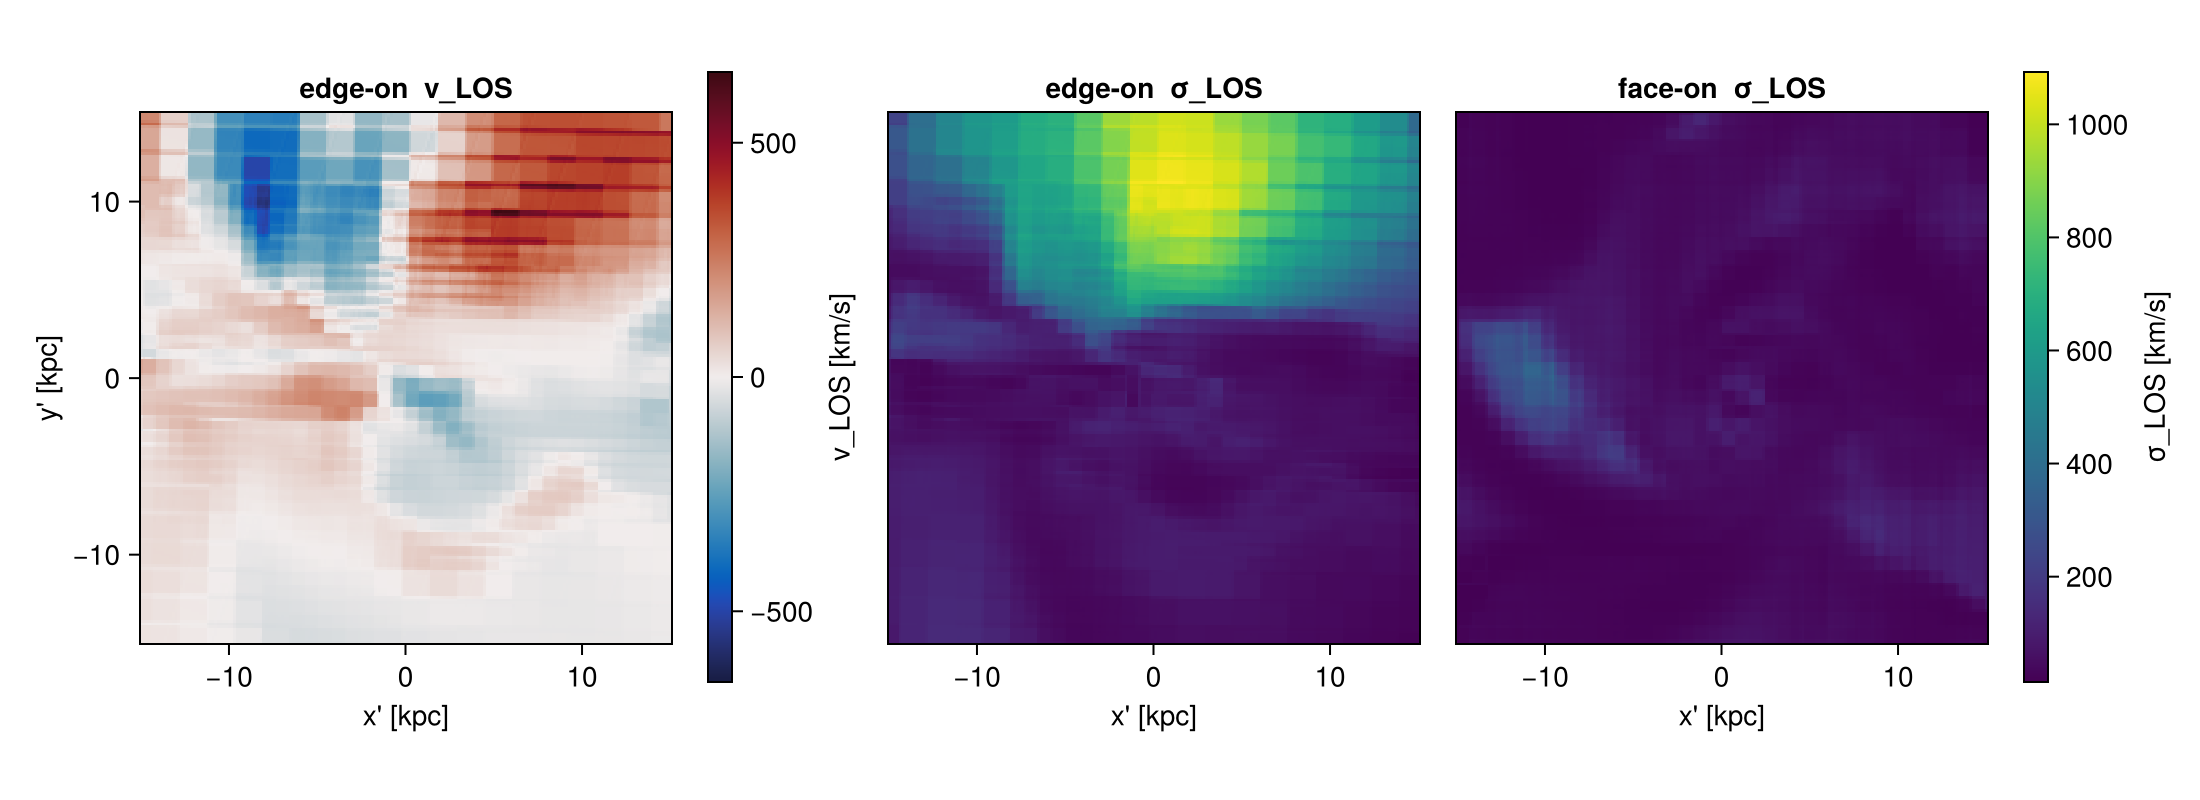
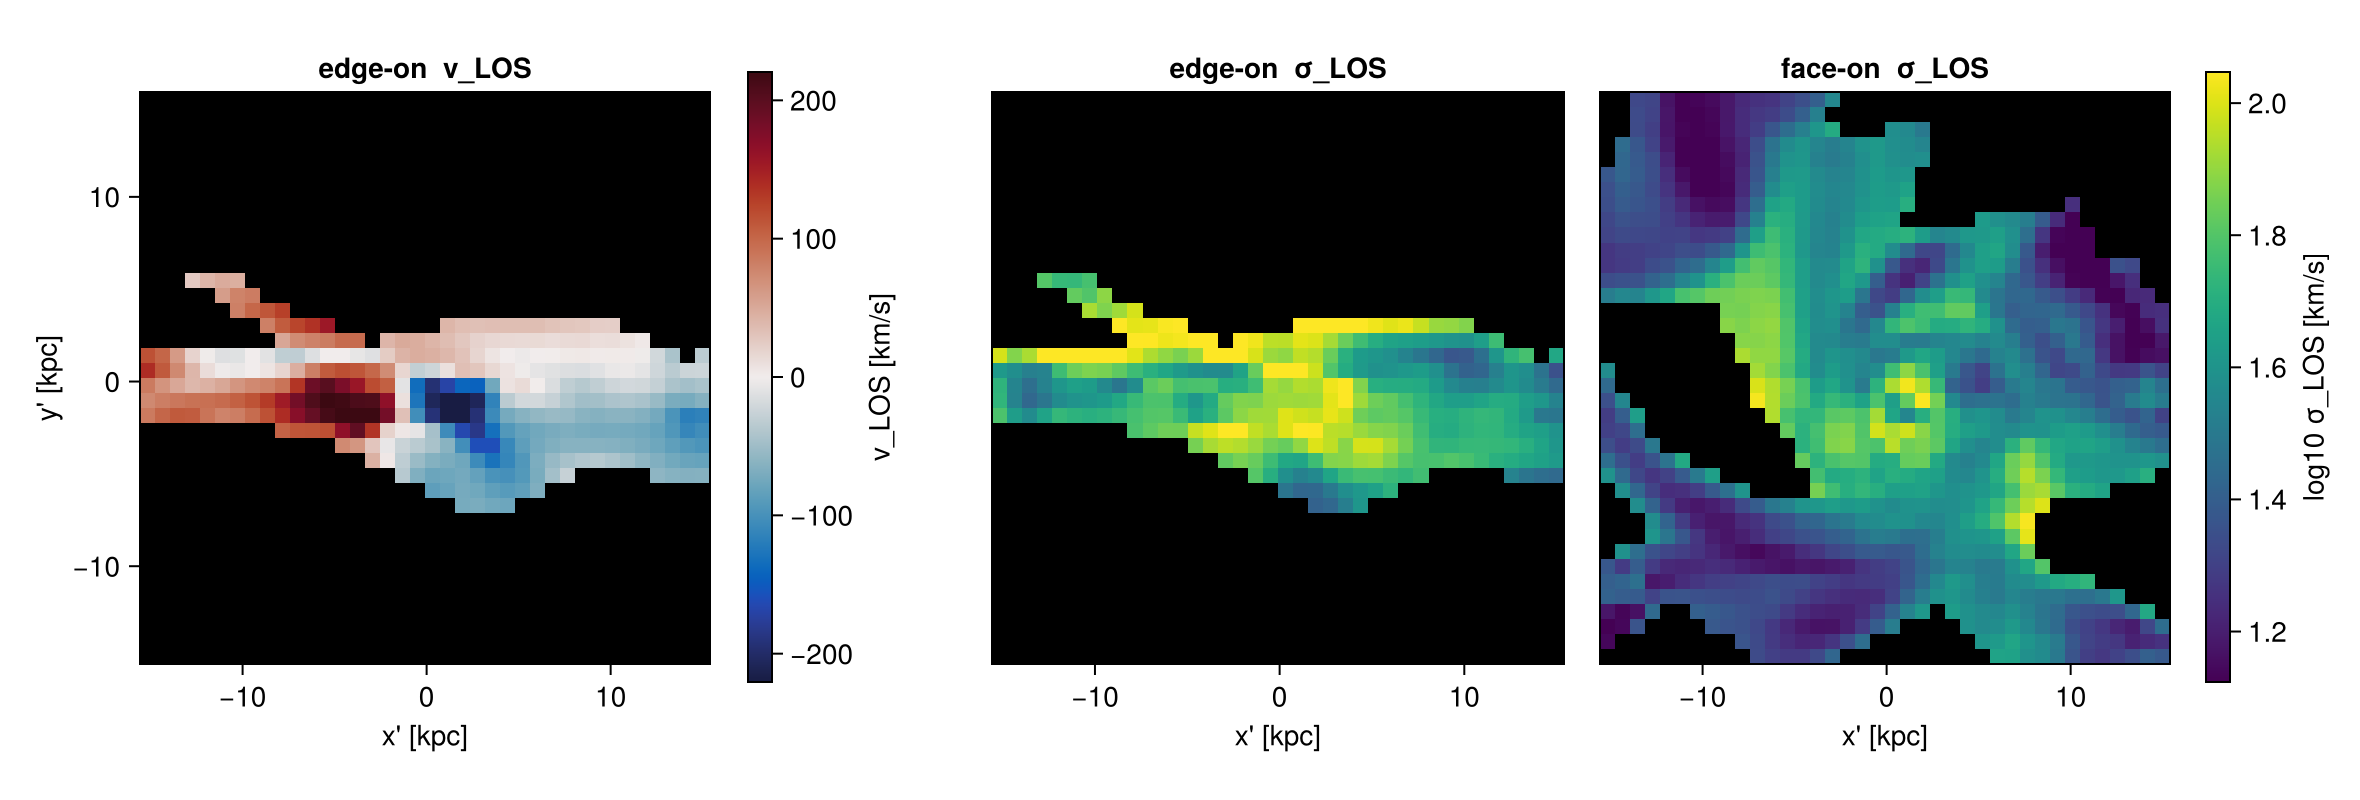
feat(projection): `fov` for particles; off-axis page shows orbits, stars and gravity
Follow-up to reviewing the rendered figures rather than the numbers.

Two chapters computed results and printed them without ever showing a picture,
in a page whose claims are about what images look like:

* Ch 9 rendered four orbit frames and printed their extents. It now shows the
  montage — four azimuths, identical 88x88 frames, extents equal to three
  decimals. The picture and the numbers make the same point from opposite ends.
* Ch 11 projected stars and gravity and printed sizes. It now shows gas, stars
  and the gravitational potential in ONE camera: the stellar disc is visibly
  thinner than the gas disc, and the potential is smoother and rounder than
  either, being an integral over all the mass rather than a map of the clumps.

Doing that surfaced an API asymmetry and one figure-quality problem:

- `fov`/`fov_unit`/`aperture` worked for hydro/RT but NOT particles
  (MethodError), so the page would have had to teach "use fov for gas, ranges
  for stars". Added to the particle path (6 signatures + the same sphere-
  selection branch): fixed frame at every angle, 80x80 square / 82x82 circle.
  rotation_sequence already worked on particles — it does its own selection.
- the star map is grainy where few particles land in a pixel. Coarsened to
  0.6 kpc, clipped the empty rim out of the colour range, and said why in the
  prose: each pixel counts a finite number of objects and inherits a sqrt(N)
  uncertainty, cured by coarsening until each pixel means something.
[…]

diff --git a/docs/src/06_offaxis_Projection.md b/docs/src/06_offaxis_Projection.md
@@ -274,7 +274,7 @@ end
              bound the depth, or `fov=<half-width>, fov_unit=…` for a fixed camera-plane
              frame (add aperture=:square for an identical frame at every angle).
              (shown once per session; verbose(false) silences Mera's messages)
-[Mera]: 2026-07-28T23:00:29.248
+[Mera]: 2026-07-28T23:51:42.559
 center: [0.5, 0.5, 0.5] ==> [50.0 [kpc] :: 50.0 [kpc] :: 50.0 [kpc]]
 domain:
 xmin::xmax: 0.28 :: 0.72  	==> 28.0 [kpc] :: 72.0 [kpc]
@@ -365,8 +365,7 @@ println("Σ(map) / msum(gas) − 1  =  ", sum(mtot.maps[:mass]) / msum(gas, :Mso
 maps returned : Any
 [:
 T, :mass, :sd]
-units         : DataStructures.SortedDict{Any, Any, Base.Order.ForwardOrdering}(:T => :K, :mass
- => :Msol, :sd => :standard)
+units         : DataStructures.SortedDict{Any, Any, Base.Order.ForwardOrdering}(:T => :K, :mass => :Msol, :sd => :standard)
 Σ(map) / msum(gas) − 1  =  0.0
 ```
 
@@ -416,35 +415,50 @@ level 5.0
 :  cell 3.12  kpc  →  31.2 pixels per cell at pxsize = 0.1 kpc
 level 6.0:  cell 1.56  kpc  →  15.6 pixels per cell at pxsize = 0.1 kpc
 level 7.0:  cell 0.78  kpc  →  7.8 pixels per cell at pxsize = 0.1 kpc
-cic      empty pixels: 27.8  %    Σ = 1.522361882e6
+cic      empty pixels:
+27.8  %    Σ = 1.522361882e6
 overlap  empty pixels: 0.0   %    Σ = 1.524710911e6
 ```
 
 ```julia
 # ── figure code from here: panels, overlays, colorbars — no new Mera concepts ──
-cr = sharedrange([p_cic, p_ovl], :sd)
-maprow([p_cic, p_ovl], :sd,
-       ["binning=:cic  (preview)", "binning=:overlap  (default)"]; crange=cr)
+# Show the REGIME, not one strawman: :cic where you would actually use it, :cic pushed past
+# the cell size, and :overlap at those same fine pixels.
+pc_ok  = projection(gas, :sd, :Msol_pc2; inclination=60, axis=:angmom, binning=:cic,
+                    center=[:bc], fov=8, fov_unit=:kpc, aperture=:square,
+                    pxsize=[0.8,:kpc], verbose=false, show_progress=false)
+allv = reduce(vcat, [log10.(filter(>(0), vec(Float64.(p.maps[:sd]))))
+                     for p in (pc_ok, p_cic, p_ovl)])
+cr = (quantile(allv, 0.02), maximum(allv))
+maprow([pc_ok, p_cic, p_ovl], :sd,
+       [":cic @ 0.8 kpc pixels
+1 pixel per cell — a fine preview",
+        ":cic @ 0.1 kpc pixels
+8 pixels per cell — falls apart",
+        ":overlap @ 0.1 kpc pixels
+same pixels, footprint deposit"]; crange=cr)
 ```
 
 ![](06_offaxis_Projection_files/06_offaxis_Projection_22_1.png)
 
-The totals agree and the pictures do not — which is the whole point of this chapter, and the
-reason "is it conservative?" is the wrong question to stop at.
+The totals agree and the pictures do not — which is the point, and the reason "is it
+conservative?" is the wrong question to stop at.
 
-`:cic` left **27.8 %** of the pixels empty; `:overlap` left none. Both deposited the same mass. A
-point deposit puts each cell's entire contribution at its centre, so where pixels are finer than
-cells the gaps between centres simply receive nothing, and the map acquires a texture that belongs
-to the grid rather than to the galaxy. The footprint methods spread each cell over the area its
-shadow actually covers, so the map stays continuous.
+Read the three panels as one statement: **it is the pixel-to-cell ratio that decides, not the
+kernel.** At 0.8 kpc pixels — about one pixel per cell here — `:cic` is a perfectly good preview
+and leaves **0 %** of pixels empty. Push to 0.1 kpc, eight pixels across every cell, and the same
+kernel leaves **27.8 %** of them empty: a point deposit puts each cell's whole contribution at its
+centre, so the gaps between centres receive nothing and the map acquires a texture that belongs to
+the grid rather than to the galaxy. `:overlap` spreads each cell over the area its shadow actually
+covers, so it stays continuous at any pixel size.
 
-The table above tells you when you are in that regime: divide the local cell size by your `pxsize`.
-At 0.1 kpc pixels the coarsest cells here span **31 pixels**, and no point deposit can fill that
-honestly.
+The table above tells you which regime you are in: divide the local cell size by your `pxsize`.
+Below about one pixel per cell, any kernel will do; well above it, only the footprint methods are
+honest.
 
-Practical rule: the default `:overlap` is already the accurate one — reach for `:cic`/`:ngp` only
-for a quick look, and use `:exact` when you want the analytic reference rather than a sampled
-approximation to it.
+Practical rule: the default `:overlap` is already the accurate one — reach for `:cic`/`:ngp` when
+you want a fast look at a sensible pixel size, and `:exact` when you want the analytic reference
+rather than a sampled approximation to it.
 
 ## 7. Line-of-sight kinematics
 
@@ -460,37 +474,56 @@ approximation to it.
 
 ```julia
 kin = (center=[:bc], fov=15, fov_unit=:kpc, aperture=:square,
-       pxsize=[0.15,:kpc], verbose=false, show_progress=false)
+       pxsize=[0.8, :kpc], verbose=false, show_progress=false)
 
-keo = projection(gas, [:vlos, :σlos], [:km_s, :km_s]; direction=:edgeon, kin...)
-kfo = projection(gas, [:vlos, :σlos], [:km_s, :km_s]; direction=:faceon, kin...)
+# ask for :sd alongside, so the kinematics can be shown where there is gas to speak of
+keo = projection(gas, [:vlos, :σlos, :sd], [:km_s, :km_s, :Msol_pc2]; direction=:edgeon, kin...)
+kfo = projection(gas, [:vlos, :σlos, :sd], [:km_s, :km_s, :Msol_pc2]; direction=:faceon, kin...)
 
 finite(A) = filter(isfinite, vec(Float64.(A)))
 println("edge-on   max |v_LOS| = ", round(maximum(abs, finite(keo.maps[:vlos])), digits=1), " km/s")
 println("face-on   max |v_LOS| = ", round(maximum(abs, finite(kfo.maps[:vlos])), digits=1), " km/s")
+println("median σ_LOS edge-on  = ", round(median(finite(keo.maps[:σlos])), digits=1), " km/s")
 ```
 
 ```
-edge-on   max |v_LOS| = 650.9
- km/s
-face-on   max |v_LOS| = 138.4 km/s
+edge-on   max |v_LOS| = 516.1 km/s
+face-on   max |v_LOS| = 124.6 km/s
+median σ_LOS edge-on  = 95.1 km/s
 ```
 
 ```julia
 # ── figure code from here: panels, overlays, colorbars — no new Mera concepts ──
-vmax  = maximum(abs, finite(keo.maps[:vlos]))
-sr    = sharedrange([keo, kfo], :σlos; logscale=false)
+# A mass-weighted MEAN is only as good as the mass in the pixel: out in the diffuse halo one
+# coarse cell can own a whole pixel and the map turns blocky. Show the kinematics where there
+# is gas — exactly what an observer does with a surface-brightness cut.
+const SDCUT = 1.0     # Msol/pc^2
+maskbysd(m, key) = [m.maps[:sd][i] >= SDCUT ? Float64(m.maps[key][i]) : NaN
+                    for i in CartesianIndices(m.maps[key])]
 
-fig = Figure(size=(1100, 400))
+function kinpanel!(ax, m, key, cmap, crange; logscale=false)
+    A = maskbysd(m, key); A = logscale ? log10.(A) : A
+    e = getextent(m, :kpc)
+    hm = heatmap!(ax, range(e[1],e[2],length=size(A,1)), range(e[3],e[4],length=size(A,2)), A;
+                  colormap=cmap, nan_color=:black, interpolate=false, colorrange=crange)
+    ax.aspect = DataAspect(); hm
+end
+
+vmax = quantile(abs.(filter(isfinite, vec(maskbysd(keo, :vlos)))), 0.98)
+sl   = filter(isfinite, vcat(vec(maskbysd(keo, :σlos)), vec(maskbysd(kfo, :σlos))))
+srng = (log10(quantile(sl, 0.02)), log10(quantile(sl, 0.98)))   # σ spans a decade → log scale
+
+fig = Figure(size=(1180, 400))
 ax1 = Axis(fig[1,1], title="edge-on  v_LOS", xlabel="x' [kpc]", ylabel="y' [kpc]")
-h1  = showmap!(ax1, keo, :vlos; logscale=false, cmap=:balance, crange=(-vmax, vmax))
+h1  = kinpanel!(ax1, keo, :vlos, :balance, (-vmax, vmax))
 Colorbar(fig[1,2], h1, label="v_LOS [km/s]")
-ax2 = Axis(fig[1,3], title="edge-on  σ_LOS", xlabel="x' [kpc]")
-h2  = showmap!(ax2, keo, :σlos; logscale=false, cmap=:viridis, crange=sr)
-ax3 = Axis(fig[1,4], title="face-on  σ_LOS", xlabel="x' [kpc]")
-showmap!(ax3, kfo, :σlos; logscale=false, cmap=:viridis, crange=sr)
+ax2 = Axis(fig[1,4], title="edge-on  σ_LOS", xlabel="x' [kpc]")
+h2  = kinpanel!(ax2, keo, :σlos, :viridis, srng; logscale=true)
+ax3 = Axis(fig[1,5], title="face-on  σ_LOS", xlabel="x' [kpc]")
+kinpanel!(ax3, kfo, :σlos, :viridis, srng; logscale=true)
 hideydecorations!(ax2, grid=false); hideydecorations!(ax3, grid=false)
-Colorbar(fig[1,5], h2, label="σ_LOS [km/s]")
+Colorbar(fig[1,6], h2, label="log10 σ_LOS [km/s]")
+colsize!(fig.layout, 3, Fixed(14))    # spacer: keeps the v colorbar from reading as panel 2's ylabel
 fig
 ```
 
@@ -608,6 +641,23 @@ azimuth 180°   frame (88, 88)   extent [kpc] = [-21.786, 21.995, -21.917, 21.86
 azimuth 270°   frame (88, 88)   extent [kpc] = [-21.772, 22.009, -21.781, 22.0]
 ```
 
+```julia
+# ── figure code from here: panels, overlays, colorbars — no new Mera concepts ──
+# The frames are already computed above; showing them is the visual half of the same claim.
+cr = sharedrange(frames, :sd)
+maprow(collect(frames), :sd, ["azimuth $(a)°" for a in 0:90:270]; crange=cr)
+```
+
+![](06_offaxis_Projection_files/06_offaxis_Projection_35_1.png)
+
+Four frames, four azimuths, one frame size and one extent to three decimals — the montage and the
+numbers say the same thing from opposite directions. That invariance is what makes the sequence
+usable as a movie: nothing breathes, so the eye reads rotation rather than zoom.
+
+Write the frames to disk with any Makie/`FileIO` recorder, or hand the vector straight to
+`Makie.record`. For a long sweep, `parallel_frames=true` renders the frames concurrently (each
+projection single-threaded) — typically 1.5–2× faster once you have more frames than threads.
+
 Every frame is the same array, the same physical extent and the same pixel scale. To turn that into a movie, animate with a **fixed colour range across all frames** (otherwise the animation flickers and destroys the very stability it is demonstrating), then encode:
 
 ```julia
@@ -704,9 +754,77 @@ println("          epot over filled pixels ", round.(extrema(filled), sigdigits=
 stars   : frame (
 107, 109)   los = [0.999, -0.002, -0.037]
 gravity : maps Any[:epot, :sd]
-          epot over filled pixels (-0.5327, -0.03714)
-   (530 of 11448 pixels empty)
+          epot over filled pixels (-0.5327, -0.03714)   (530 of 11448 pixels empty)
 ```
+
+```julia
+# The same camera, pointed at a different data type. `fov` frames both identically, so the two
+# panels can be compared pixel for pixel.
+# 0.6 kpc pixels: fine enough to show both discs, coarse enough that the STAR map is not
+# dominated by Poisson noise (453 200 particles — the outskirts get very few per pixel)
+shot = (direction=:edgeon, center=[:bc], fov=20, fov_unit=:kpc, aperture=:square,
+        pxsize=[0.6, :kpc], verbose=false, show_progress=false)
+gas_eo  = projection(gas,  :sd, :Msol_pc2; shot...)
+star_eo = projection(part, :sd, :Msol_pc2; shot...)
+# gravity rides on the hydro grid: the two-object form, same camera, same framing
+pot_eo  = projection(gas, grav, :epot, :km2_s2; shot...)
+println("gas   frame ", size(gas_eo.maps[:sd]),
+        "   stars ", size(star_eo.maps[:sd]),
+        "   potential ", size(pot_eo.maps[:epot]))
+println("φ along the line of sight: ", round.(extrema(pot_eo.maps[:epot]), sigdigits=4), " km²/s²")
+
+# ── figure code from here: panels, overlays, colorbars — no new Mera concepts ──
+# separate colour ranges: gas and stars differ by orders of magnitude in surface density,
+# and forcing one scale would flatten whichever loses
+lo(m) = quantile(log10.(filter(>(0), vec(Float64.(m.maps[:sd])))), 0.25)  # clip the empty rim
+hi(m) = maximum(log10.(filter(>(0), vec(Float64.(m.maps[:sd])))))
+
+fig = Figure(size=(1420, 400))
+ax1 = Axis(fig[1,1], title="gas  Σ", xlabel="x' [kpc]", ylabel="y' [kpc]")
+h1 = showmap!(ax1, gas_eo, :sd; crange=(lo(gas_eo), hi(gas_eo)))
+Colorbar(fig[1,2], h1, label="log10 Σ_gas [M⊙/pc²]")
+
+ax2 = Axis(fig[1,4], title="stars  Σ", xlabel="x' [kpc]")
+h2 = showmap!(ax2, star_eo, :sd; crange=(lo(star_eo), hi(star_eo)))
+Colorbar(fig[1,5], h2, label="log10 Σ_★ [M⊙/pc²]")
+
+# the potential is negative everywhere and spans a small range — a linear scale on the raw
+# value, no log, and a sequential map so "deeper" reads as one direction
+ax3 = Axis(fig[1,7], title="gravitational potential φ", xlabel="x' [kpc]")
+h3 = showmap!(ax3, pot_eo, :epot; logscale=false, cmap=:magma)
+Colorbar(fig[1,8], h3, label="φ [km²/s²]")
+
+hideydecorations!(ax2, grid=false); hideydecorations!(ax3, grid=false)
+colsize!(fig.layout, 3, Fixed(14)); colsize!(fig.layout, 6, Fixed(14))
+fig
+```
+
+```
+gas   frame (67, 67)   stars (67, 67)   potential (67, 67)
+φ along the line of sight: (-1976.0, -175.5) km²/s²
+```
+
+![](06_offaxis_Projection_files/06_offaxis_Projection_43_2.png)
+
+Same keywords, same camera, three different kinds of data — and each one says something the
+others cannot. The stars form a **thinner, smoother disc** than the gas, which is exactly the
+comparison that motivates making both maps in one orientation. The potential is smoother than
+either: it is an integral over all the mass, so it does not care about the clumps that dominate
+the gas map, and its contours are rounder than the disc that produced them.
+
+Gravity comes through the **two-object form**, `projection(hydro, gravity, var)`: the hydro object
+supplies the weights and the gravity object the field, so both must describe the same cells —
+load them from the same `info` at the same `lmax`. `fov` cuts both together, so the three panels
+above are framed identically and can be compared pixel for pixel.
+
+`fov` works for particles as it does for the grid — the framing is a selection, so it does not care
+what is being deposited. What *does* differ is the deposit itself: points have no footprint, so
+particle projections use `:cic` and the footprint kernels fall back to it.
+
+That difference is visible if you push the pixels: a grid map degrades smoothly, while a particle
+map becomes **grainy**, because each pixel is counting a finite number of objects and inherits a
+√N uncertainty. The cure is the same as in any counting experiment — coarsen the pixels until each
+one holds enough particles to mean something.
 
 Nothing above is hydro-specific. The camera keywords, the framing keywords and the binning
 keywords mean the same thing for every projectable data type:
